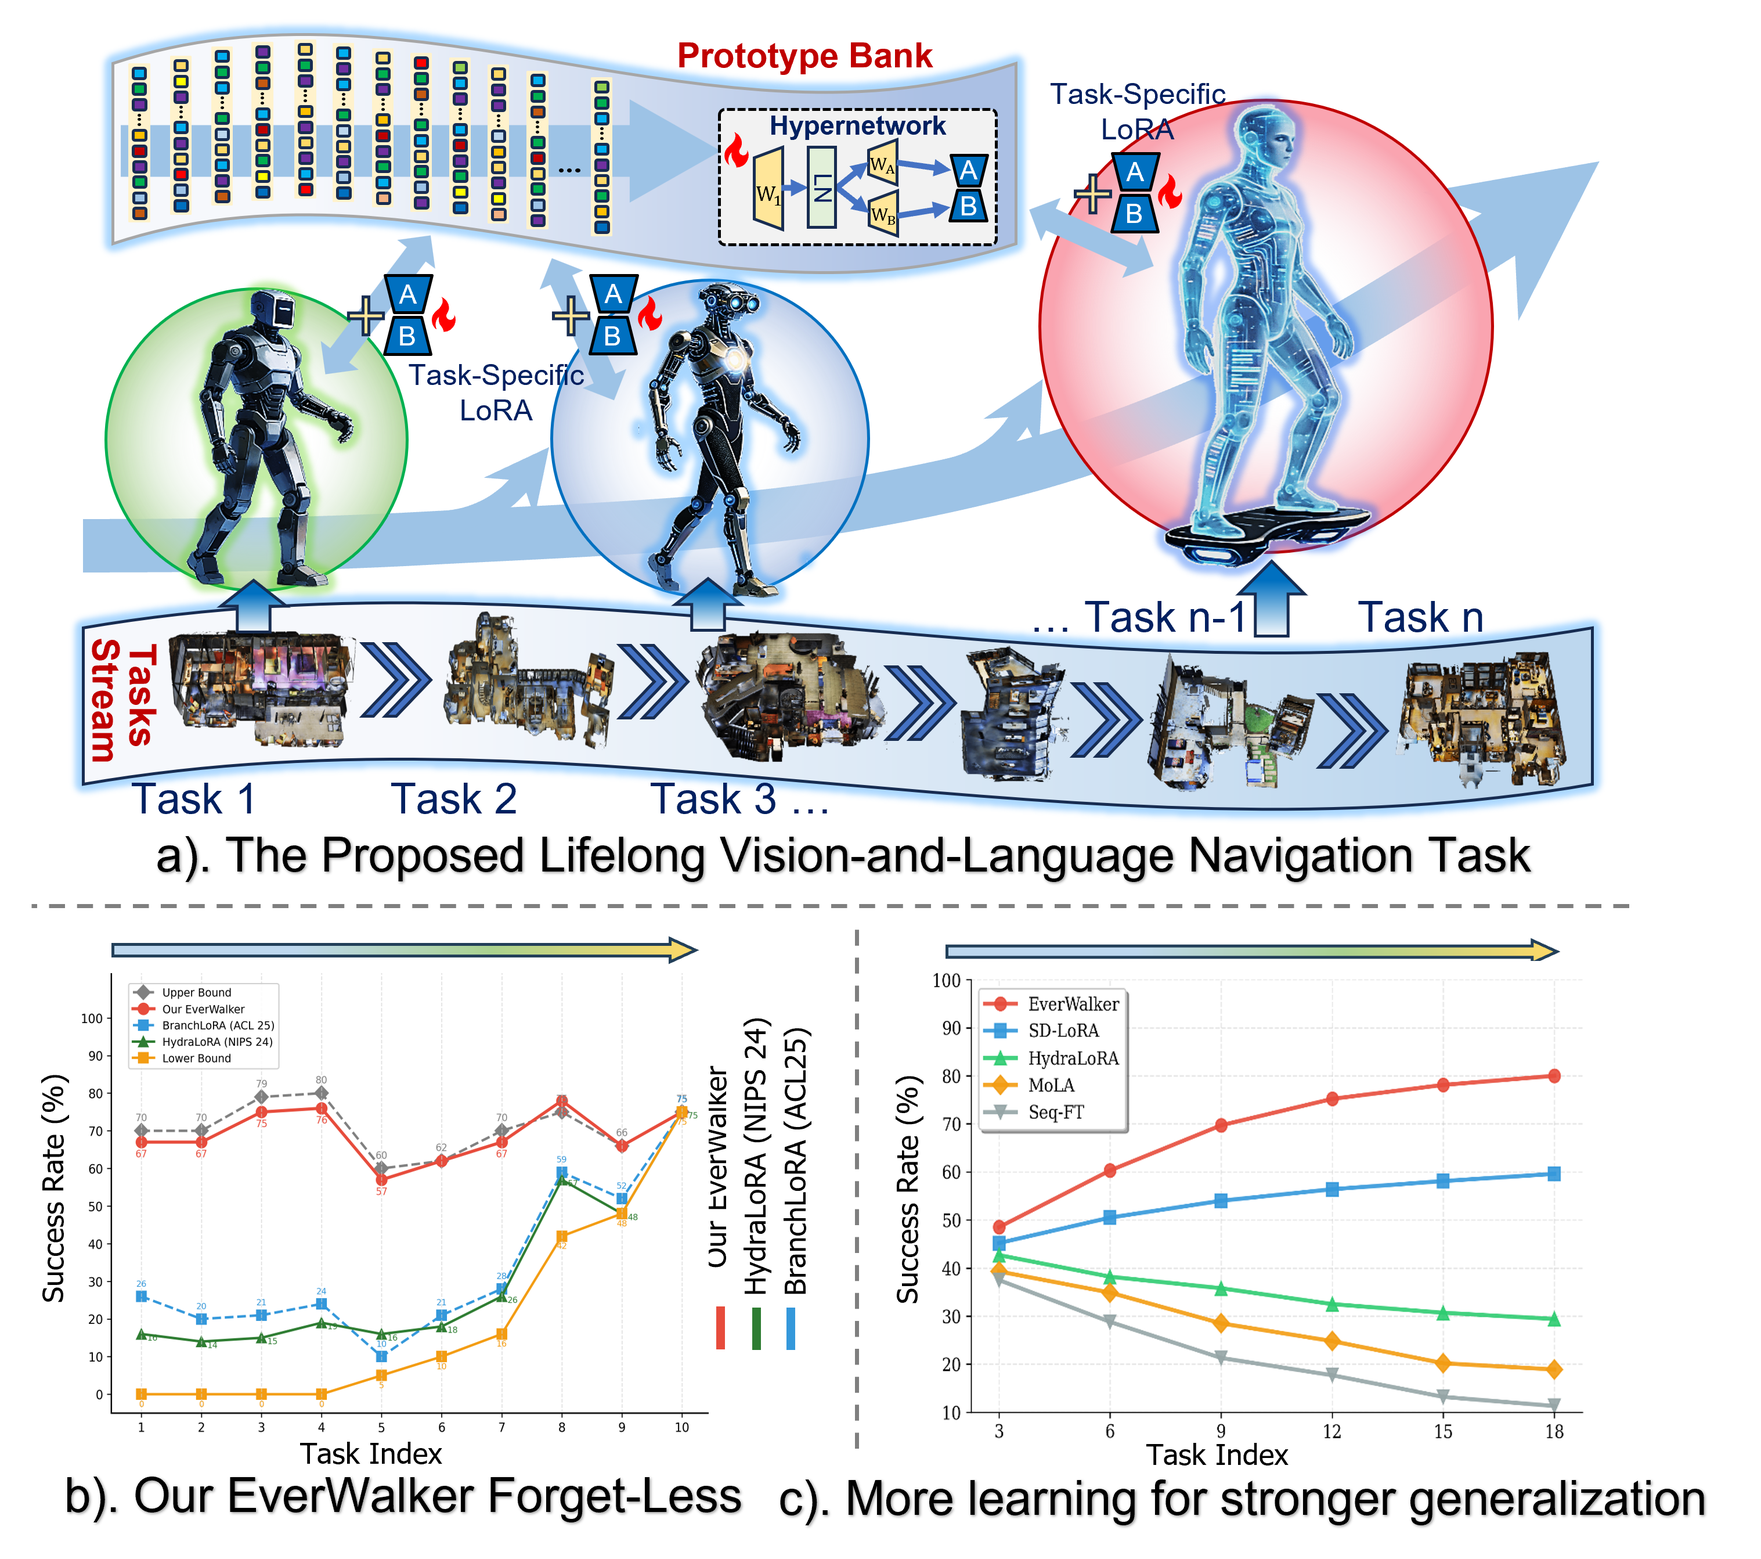
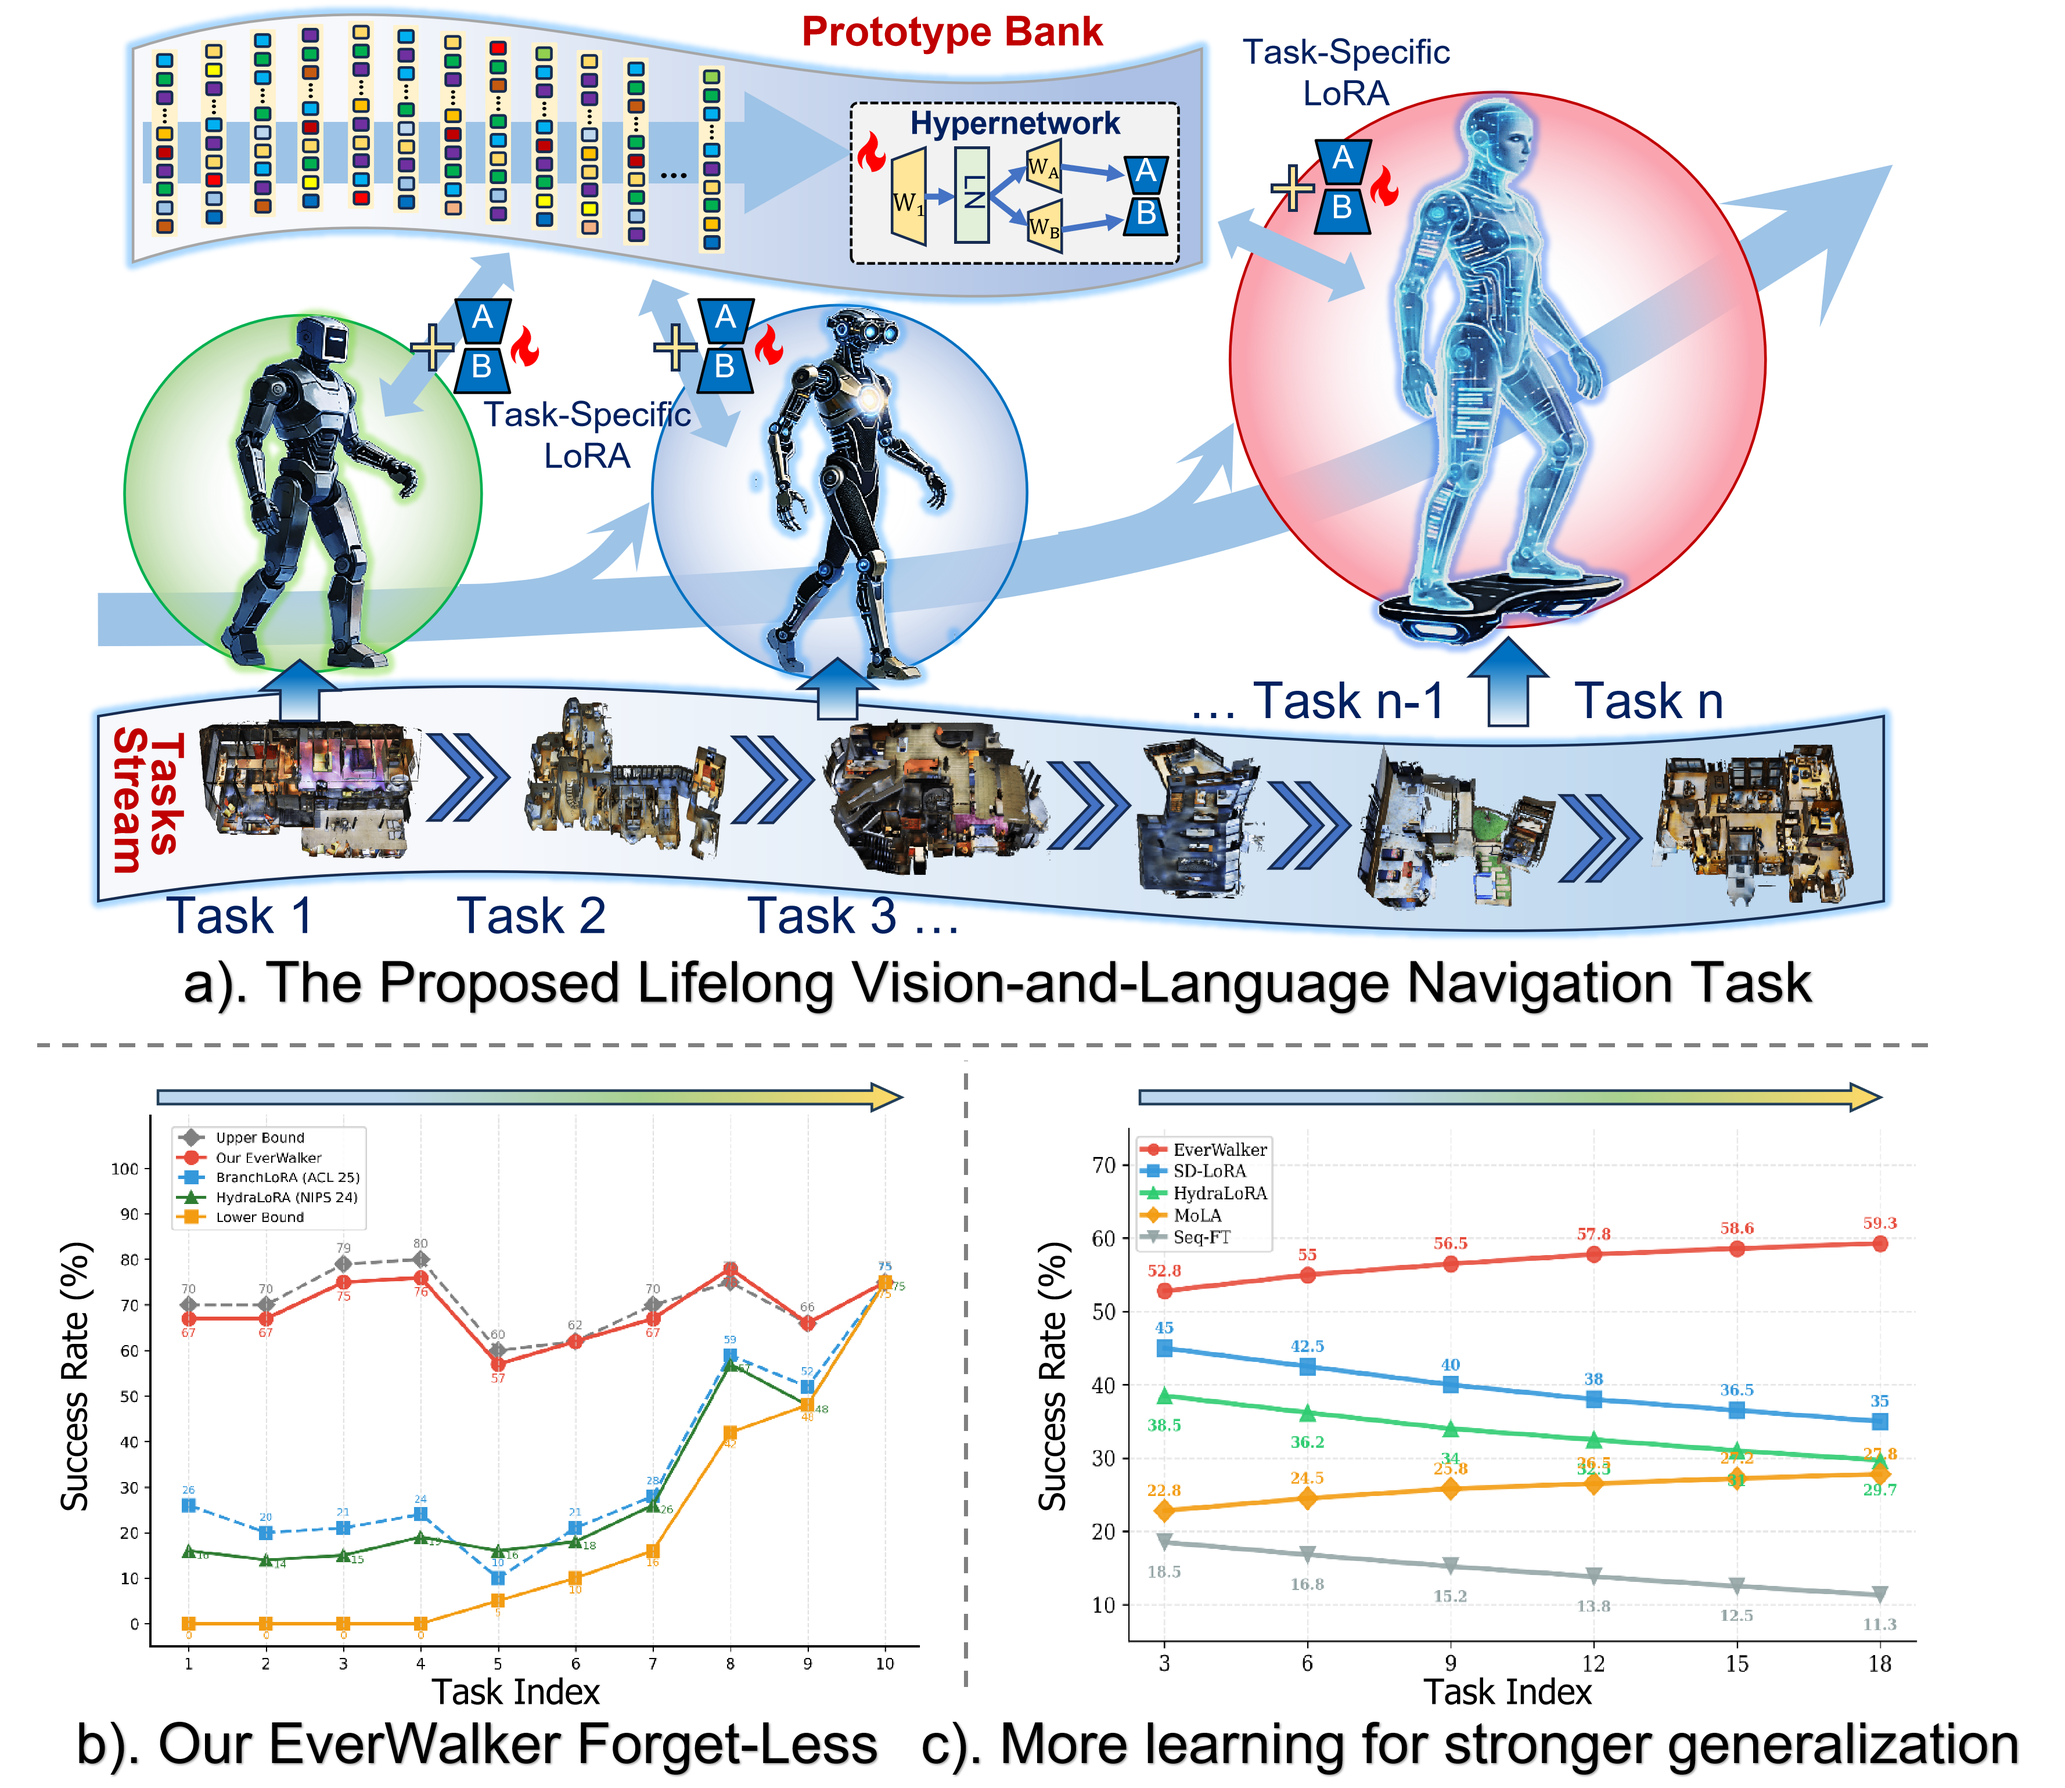
commit

Changed region(s): [[0.031, 0.0, 0.9914, 1.0], [0.8055, 0.2782, 0.8365, 0.3091]]

diff --git a/README.md b/README.md
@@ -1,13 +1,20 @@
 # Evolving the Prototype Journey: Lifelong Vision-and-Language Navigation with Prototype Adaptation
 
+<p align="center">
+  <b>🎉 Accepted by IEEE Transactions on Circuits and Systems for Video Technology (T-CSVT)</b>
+</p>
 
 <p align="center">
   <a href="https://doi.org/10.1109/TCSVT.2026.3727681"><img src="https://img.shields.io/badge/IEEE-TCSVT%202026-00629B?style=flat-square&logo=ieee&logoColor=white" alt="Paper"></a>
+  &nbsp;&nbsp;&nbsp;&nbsp;
   <a href="https://ganvin-li.github.io/EverWalker/"><img src="https://img.shields.io/badge/Project-Page-1f293d?style=flat-square&logo=githubpages&logoColor=white" alt="Project Page"></a>
-  <a href="LICENSE"><img src="https://img.shields.io/badge/License-MIT-yellow?style=flat-square" alt="License"></a>
+  &nbsp;&nbsp;&nbsp;&nbsp;
+  <a href="LICENSE"><img src="https://img.shields.io/badge/License-Apache%202.0-yellow?style=flat-square" alt="License"></a>
+  &nbsp;&nbsp;&nbsp;&nbsp;
   <a href="https://github.com/Ganvin-Li/EverWalker/stargazers"><img src="https://img.shields.io/github/stars/Ganvin-Li/EverWalker?style=flat-square&color=orange" alt="Stars"></a>
 </p>
 
+---
 
 <div align="center">
 <img src="assets/Figure.png" width="90%">
@@ -35,12 +42,12 @@
 ## ✨ Key Features
 
 ### Lifelong Learning without Forgetting
-- ✅ **Only 4.3% forgetting rate** (11% improvement over baselines)
-- ✅ **67.3% average success rate** across 18 continual tasks
+- ✅ **Low forgetting rate**
+- ✅ **High average success rate** across continual tasks
 - ✅ **Strong zero-shot generalization** to unseen scenes
 
 ### Efficient and Scalable
-- ⚡ **4% computational overhead**: Minimal additional cost
+- ⚡ **Computational overhead**: Minimal additional cost
 - 🔄 **Dynamic adaptation**: Step-level LoRA generation
 
 ### Comprehensive Framework
@@ -142,81 +149,9 @@ bash scripts/streamvln_train_protostream.sh
 ```bash
 # Evaluate on all tasks
 python streamvln_eval.py \
-    --checkpoint outputs/protostream/checkpoints/task_1.pth \
+    --checkpoint outputs/protostream/checkpoints \
     --config config/vln_r2r.yaml \
     --output_dir outputs/evaluation
-```
-
-
----
-
-## 📁 Project Structure
-
-```
-EverWalker/
-├── config/                          # Configuration files
-│   └── vln_r2r.yaml                # StreamVLN R2R config
-│
-├── llava/                           # Vision-language model
-│
-├── scripts/                         # Training and evaluation scripts
-│   ├── streamvln_train_protostream.sh
-│   ├── zero2.json                  # DeepSpeed config
-│   └── zero3.json
-│
-├── streamvln/                       # Main source code
-│   ├── model/                       # Model implementations
-│   │   ├── continual_learning.py   # Continual learning utils
-│   │   ├── hyper_lora_layers.py    # HyperNetwork generators
-│   │   ├── prototype_manager.py    # Prototype bank management
-│   │   ├── scene_encoder.py        # Scene feature encoder
-│   │   ├── triple_distillation.py  # Multi-level distillation
-│   │   └── stream_video_vln.py     # Main VLN model
-│   │
-│   ├── dataset/                     # Data processing
-│   ├── habitat_extensions/          # Habitat simulator extensions
-│   └── utils/                       # Utility functions
-│       ├── dist.py                  # Distributed training
-│       └── utils.py
-│
-├── streamvln_train.py              # Training script
-├── streamvln_eval.py               # Evaluation script
-├── streamvln_eval_baseline.py      # Baseline evaluation
-├── args.py                          # Argument parser
-├── measures.py                      # Evaluation metrics
-├── maps.py                          # Navigation maps
-│
-├── requirements.txt                 # Python dependencies
-└── README.md                        # This file
-```
-
----
-
-## 🎯 Reproducing Results
-
-### Expected Outputs
-
-After training completes, you should see:
-
-```
-outputs/
-├── EverWalker/
-│   ├── checkpoints/
-│   │   ├── task_1.pth
-│   │   ├── task_2.pth
-│   │   └── ...
-│   ├── prototypes/
-│   │   ├── task_1_protos.npy
-│   │   └── ...
-│   ├── teacher_loras/
-│   │   └── ...
-│   └── logs/
-│       └── training.log
-│
-└── results/
-    ├── task_wise_sr.json
-    ├── forgetting_rate.json
-    └── ablation_results.json
 ```
 
 ---
